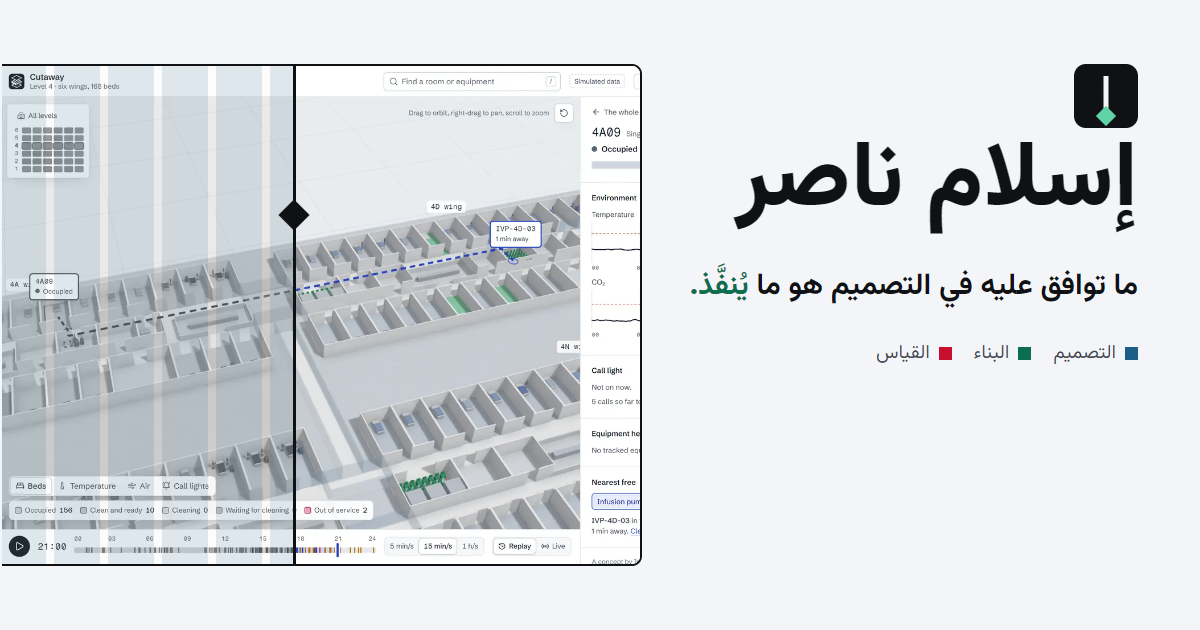
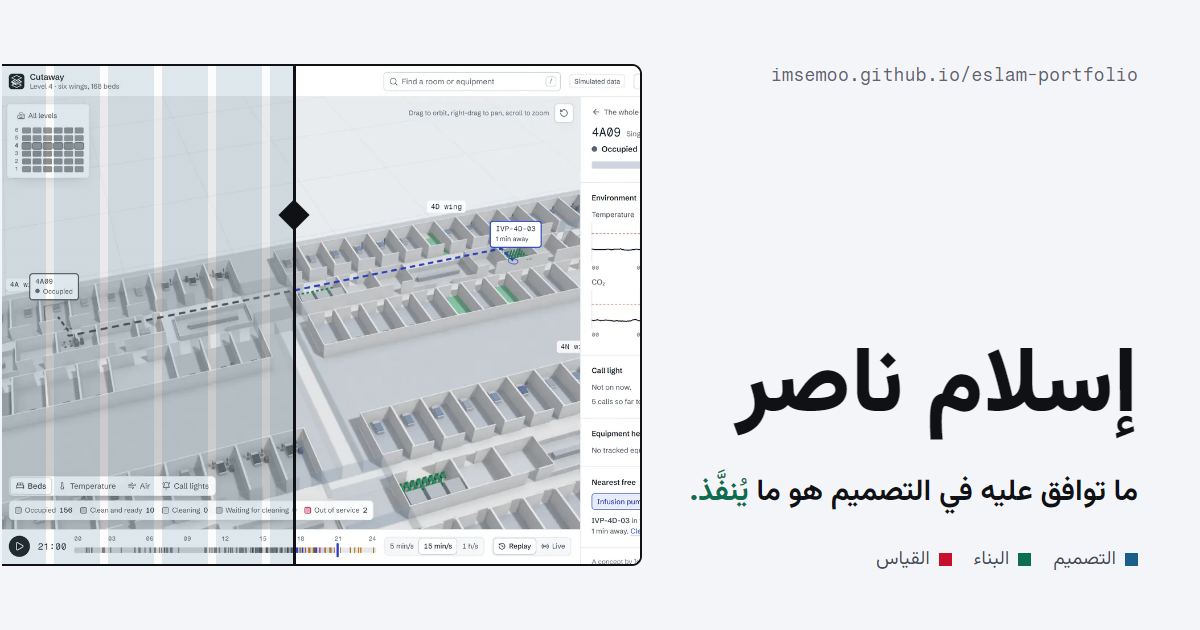
Replace the boxed mark with the name in both scripts
The header now opens on a logotype instead of an icon in a rounded square:
the name in the page's language, the cut with a diamond at its foot, then
the name in the other script, quieter. Below 960 px only the page's
language shows.

- The header has no ground until the page scrolls, then a quiet surface and
  a hairline. The current section is marked with a small diamond, and the
  role line under the name is gone.
- "Email me" is a lighter pill with an arrow that turns for Arabic. At 400 px
  and under the bar tightens so nothing runs past a 320 px screen.
- The tab icon is the section mark on ink: a line cut by a diamond in its
  middle. With the diamond under the line it read as an exclamation mark.
- The link-preview cards drop the old mark for the site address.

Checked with axe-core on the home, case, archive, About and Lab pages at
1440 px light and dark and at 390 px: no violations; no horizontal overflow
at 320, 360 or 390 px.

diff --git a/site/src/styles/header.css b/site/src/styles/header.css
@@ -1,0 +1,59 @@
+/* The header, redrawn on 4 November: the name in both scripts as the logo,
+   split by the cut; no box, no role line. It sits on the page with no ground
+   until the page scrolls, then takes a quiet surface and a hairline. */
+
+.bar { background: transparent; border-bottom: 1px solid transparent; backdrop-filter: none; transition: background var(--dur-fast) ease, border-color var(--dur-fast) ease; }
+.bar[data-scrolled] { background: color-mix(in srgb, var(--ground) 88%, transparent); border-bottom-color: var(--line); backdrop-filter: saturate(1.2) blur(12px); }
+.bar__in { min-height: 76px; gap: clamp(16px, 3vw, 40px); }
+
+/* the logo: page language first, the cut, the other script */
+.logo { display: inline-flex; align-items: center; gap: 12px; min-height: var(--target); text-decoration: none; color: var(--text); white-space: nowrap; flex: none; }
+.logo__name { font-size: 18px; line-height: 1; font-weight: 750; }
+.logo__name:lang(en) { font-family: var(--font-latin); letter-spacing: -0.03em; }
+.logo__name:lang(ar) { font-family: var(--font-arabic); font-weight: 700; letter-spacing: 0; }
+.logo__cut { position: relative; inline-size: 2px; block-size: 26px; background: currentColor; flex: none; }
+.logo__cut::after { content: ""; position: absolute; left: 50%; bottom: -2px; inline-size: 7px; block-size: 7px; background: var(--build); transform: translateX(-50%) rotate(45deg); transition: transform var(--dur) var(--ease-out); }
+.logo:hover .logo__cut::after, .logo:focus-visible .logo__cut::after { transform: translate(-50%, -19px) rotate(45deg); }
+.logo__name--other { color: var(--text-2); font-weight: 600; }
+
+/* sections: the current one is marked with the diamond, not an underline */
+.bar__nav { display: flex; gap: clamp(18px, 2.4vw, 32px); margin-inline-start: auto; }
+.bar__nav a { position: relative; display: inline-flex; align-items: center; min-height: var(--target); text-decoration: none; color: var(--text-2); font-size: 15px; font-weight: 500; }
+.bar__nav a:hover { color: var(--text); }
+.bar .bar__nav a[aria-current] { color: var(--text); box-shadow: none; }
+.bar__nav a[aria-current]::before { content: ""; position: absolute; inset-inline-start: -13px; top: 50%; inline-size: 6px; block-size: 6px; background: var(--build); transform: translateY(-50%) rotate(45deg); }
+
+.bar__end { gap: 4px; }
+.bar .lang { color: var(--text-2); font-size: 15px; padding-inline: 10px; border-inline-start: 1px solid var(--line-strong); min-height: 22px; margin-inline-start: 8px; }
+.bar .lang:hover { color: var(--text); }
+.bar .icon-btn { color: var(--text-2); }
+.bar .icon-btn:hover { color: var(--text); border-color: transparent; }
+.bar__cta { display: inline-flex; align-items: center; gap: 10px; min-height: 40px; padding-inline: 16px 14px; margin-inline-start: 6px; border-radius: 999px; background: var(--text); color: var(--ground); font: 600 14.5px/1 var(--font-body); text-decoration: none; white-space: nowrap; }
+.bar__cta svg { inline-size: 16px; block-size: 10px; transition: transform var(--dur-fast) var(--ease-out); }
+:lang(ar) .bar__cta svg { transform: scaleX(-1); }
+.bar__cta:hover svg { transform: translateX(3px); }
+:lang(ar) .bar__cta:hover svg { transform: scaleX(-1) translateX(3px); }
+/* the pill keeps a 44 px target without looking heavy */
+.bar__cta { position: relative; }
+.bar__cta::after { content: ""; position: absolute; inset: -2px 0; }
+
+@media (max-width: 960px) { .bar__nav { gap: 18px; } .logo__name--other { display: none; } .logo__cut { block-size: 22px; } }
+@media (max-width: 760px) {
+  .bar__nav { display: none; }
+  .bar__end { margin-inline-start: auto; }
+}
+@media (max-width: 420px) {
+  .logo__name { font-size: 16px; }
+  .bar .lang { margin-inline-start: 0; border-inline-start: 0; padding-inline: 6px; }
+  .bar__cta { padding-inline: 12px 10px; }
+}
+@media (max-width: 400px) {
+  .bar__in { gap: 8px; }
+  .logo { gap: 9px; }
+  .logo__name { font-size: 15px; }
+  .bar__end { gap: 0; }
+  .bar .lang { font-size: 14px; padding-inline: 6px; }
+  .bar .icon-btn { inline-size: 40px; }
+  .bar__cta { padding-inline: 12px; margin-inline-start: 2px; }
+  .bar__cta svg { display: none; }
+}

diff --git a/site/og/og.html b/site/og/og.html
@@ -12,7 +12,9 @@
   html[lang="ar"] body { font-family: "Vazirmatn", sans-serif; }
   .copy { padding: 64px 0 56px 64px; display: grid; grid-template-rows: auto 1fr auto; }
   html[lang="ar"] .copy { padding: 64px 64px 56px 0; }
-  .mark { width: 64px; height: 64px; }
+  .copy > div { align-self: end; }
+  html[lang="ar"] .site { text-align: right; }
+  .site { font: 18px "Fragment Mono", monospace; color: #5d6470; direction: ltr; }
   .name { align-self: end; font-size: 92px; line-height: 0.92; letter-spacing: -0.05em; font-weight: 800; }
   html[lang="ar"] .name { letter-spacing: 0; line-height: 1.2; font-size: 92px; }
   .line { margin-top: 26px; font-size: 32px; line-height: 1.18; font-weight: 700; letter-spacing: -0.02em; max-width: 470px; text-wrap: balance; }
@@ -36,7 +38,7 @@
 </head>
 <body>
   <div class="copy">
-    <svg class="mark" viewBox="0 0 32 32"><rect width="32" height="32" rx="6" fill="#0f1115"/><rect x="14.75" y="6" width="2.5" height="17" fill="#f4f5f7"/><rect x="12.4" y="22.4" width="7.2" height="7.2" transform="rotate(45 16 26)" fill="#5fd3a5"/></svg>
+    <p class="site">imsemoo.github.io/eslam-portfolio</p>
     <div>
       <h1 class="name" data-name>Islam Nasser</h1>
       <p class="line" data-line>What you approve in the design is what <em>ships.</em></p>

diff --git a/site/src/scripts/site.js b/site/src/scripts/site.js
@@ -26,6 +26,17 @@ const $$ = (s, r = document) => [...r.querySelectorAll(s)];
   btn.addEventListener("click", () => set(order[(order.indexOf(cur) + 1) % order.length]));
 })();
 
+
+/* ---------- the header takes a ground once the page moves ---------- */
+(function bar() {
+  const b = $("[data-bar]");
+  if (!b) return;
+  let on = null;
+  const set = () => { const v = scrollY > 8; if (v !== on) { on = v; b.toggleAttribute("data-scrolled", v); } };
+  addEventListener("scroll", set, { passive: true });
+  set();
+})();
+
 /* ---------- the hero: a miniature of this page, cut open ---------- */
 const MINI = [
   [4, 3.5, 16, 3.4, "ink"], [46, 4.2, 6, 2], [55, 4.2, 6, 2], [64, 4.2, 6, 2], [80, 2.5, 15, 5.5, "ink"],
